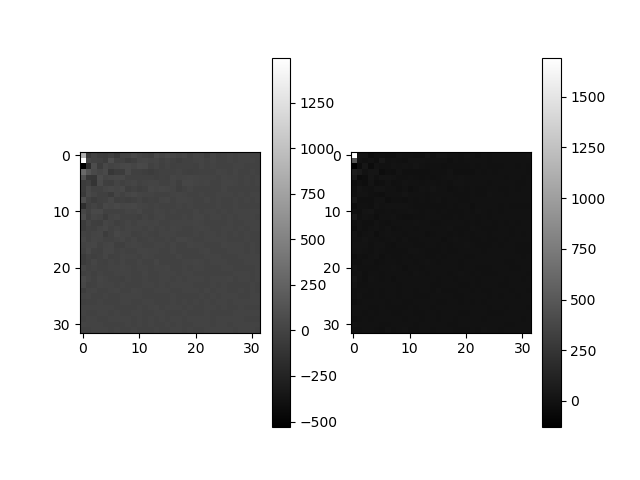
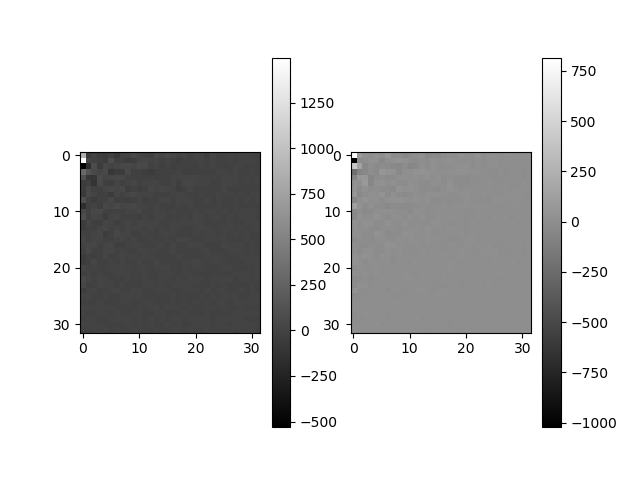
add FGSM attack type
Need to Run this script multiple times with different models and different attacks to obtain different plots ..

diff --git a/vgg_attack_CIFAR/vgg_attack_new.py b/vgg_attack_CIFAR/vgg_attack_new.py
@@ -16,7 +16,10 @@ import torch
 import torchvision
 import torchvision.transforms as transforms
 
-from advertorch.attacks import LinfPGDAttack, CarliniWagnerL2Attack, JacobianSaliencyMapAttack
+from advertorch.attacks import LinfPGDAttack, CarliniWagnerL2Attack, JacobianSaliencyMapAttack, LBFGSAttack
+
+# 								PGD Attack, 	CW Attack, 			Jacobian Attack,			FGSM Attack
+
 
 import vgg
 from vgg import VGG
@@ -48,6 +51,8 @@ else:
 ####################################
 # load model
 ####################################
+
+# Set the model 
 model = vgg.vgg19()
 
 if os.path.isfile(MODEL):
@@ -90,19 +95,31 @@ cln_data, true_label = cln_data.to(device), true_label.to(device)
 
 
 ####################################
-# Construct a LinfPGDAttack adversary instance
+# Construct an adversary instance
 ####################################
-adversary = LinfPGDAttack(
+
+
+
+adversary_CW = CarliniWagnerL2Attack(model, num_classes = len(classes) , 
+	confidence=0, targeted=False, learning_rate=0.01, binary_search_steps=9, max_iterations=10000, 
+	abort_early=True, initial_const=0.001, clip_min=0.0, clip_max=1.0, loss_fn=None)
+
+adversary_Jacobian = JacobianSaliencyMapAttack(model, num_classes = len(classes), 
+	clip_min=0.0, clip_max=1.0, loss_fn=None, theta=1.0, gamma=1.0, comply_cleverhans=False)
+
+adversary_PGD = LinfPGDAttack(
 	model, loss_fn=nn.CrossEntropyLoss(reduction="sum"), eps=0.15,
 	nb_iter=40, eps_iter=0.01, rand_init=True, clip_min=0.0, clip_max=1.0,
 	targeted=False)
 
-adversary = CarliniWagnerL2Attack(model, num_classes = len(classes) , 
-	confidence=0, targeted=False, learning_rate=0.01, binary_search_steps=9, max_iterations=10000, 
-	abort_early=True, initial_const=0.001, clip_min=0.0, clip_max=1.0, loss_fn=None)
+adversary_FGSM = LBFGSAttack(model, num_classes = len(classes), batch_size=1, binary_search_steps=9, 
+	max_iterations=100, initial_const=0.01, clip_min=0, clip_max=1, loss_fn=None, targeted=False)
 
-adversary = JacobianSaliencyMapAttack(model, num_classes = len(classes), 
-	clip_min=0.0, clip_max=1.0, loss_fn=None, theta=1.0, gamma=1.0, comply_cleverhans=False)
+
+
+
+# Set the type of attack
+adversary = adversary_PGD
 
 ####################################
 #Perform untargeted attack
@@ -193,7 +210,7 @@ _counter_ = 0
 for i in range(n_rows):
 	for j in range(n_cols):
 		_counter_ += 1
-		_dct_domain_ += torch_dct.dct_2d(adv_untargeted[i,j])
+		_dct_domain_ += torch_dct.dct_2d(adv_untargeted[i,j]) - torch_dct.dct_2d(cln_data[i,j])
 
 _dct_domain_ = _dct_domain_ / _counter_
 
@@ -230,7 +247,7 @@ _counter_ = 0
 for i in range(n_rows):
 	for j in range(n_cols):
 		_counter_ += 1
-		_dct_domain_ += torch_dct.dct_2d(adv_targeted[i,j])
+		_dct_domain_ += torch_dct.dct_2d(adv_targeted[i,j]) - torch_dct.dct_2d(cln_data[i,j])
 
 _dct_domain_ = _dct_domain_ / _counter_
 
